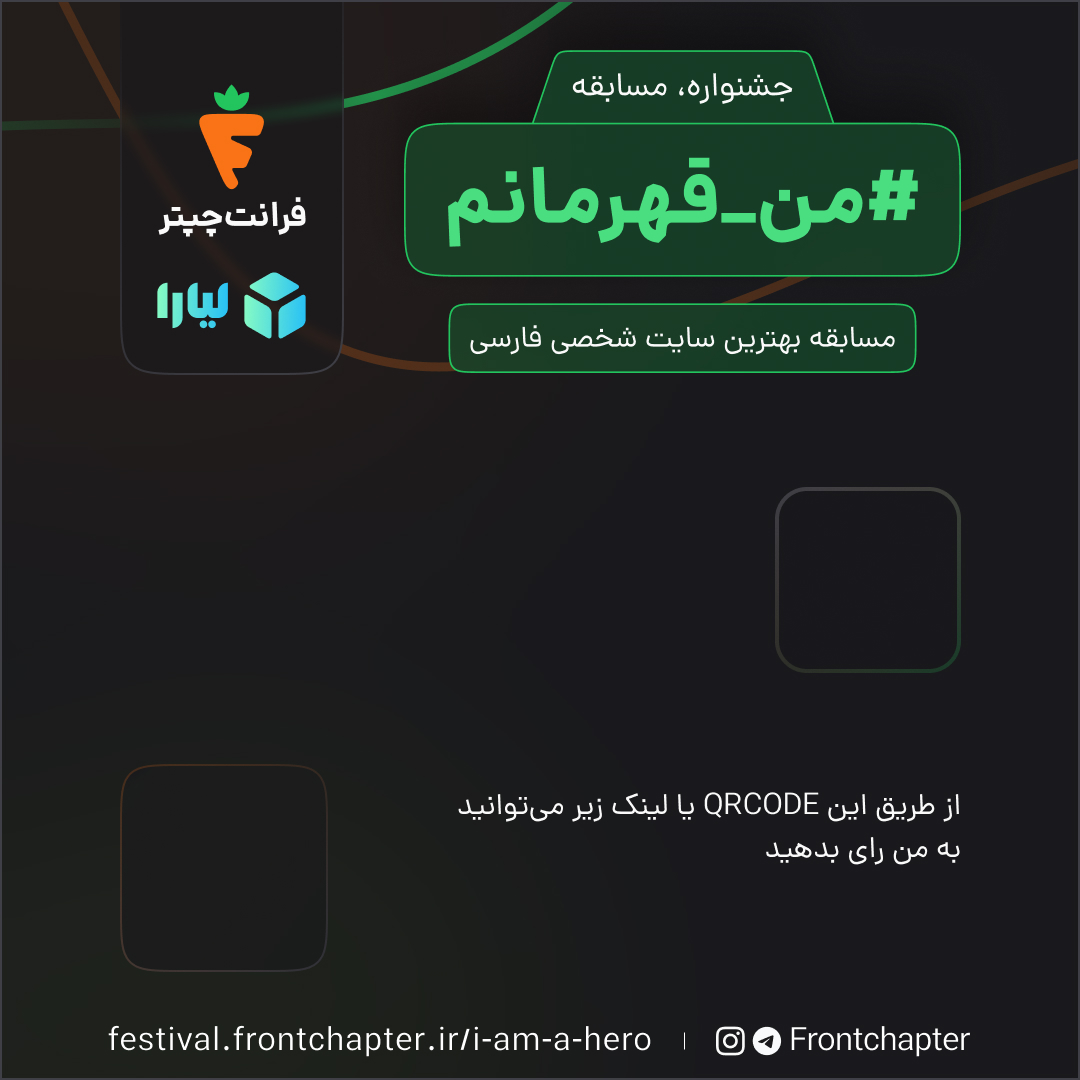
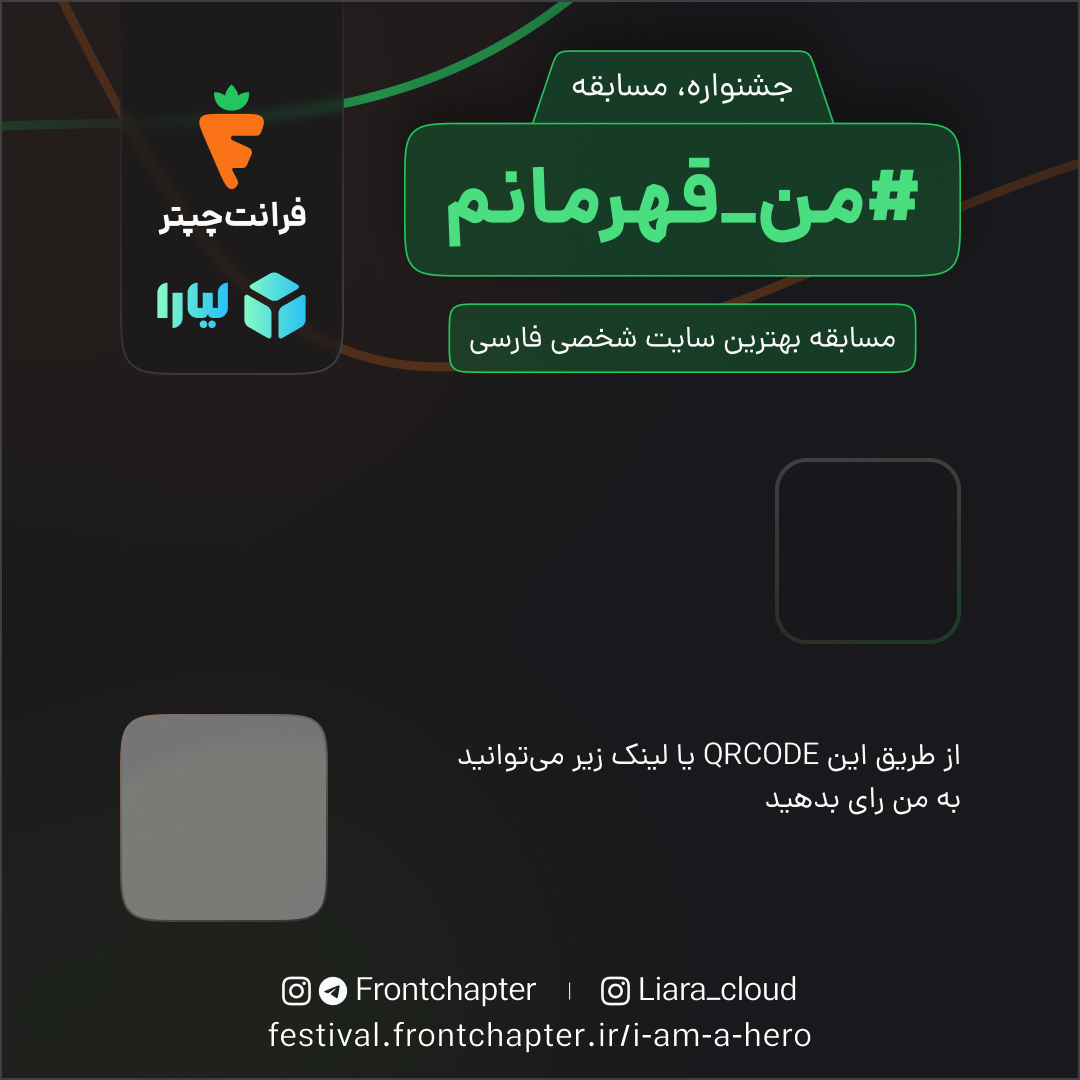
feat: :sparkles count sites views

diff --git a/resources/sass/app.scss b/resources/sass/app.scss
@@ -125,7 +125,7 @@
     }
 
     path {
-        @apply fill-slate-200 #{!important};
+        @apply fill-secondary-900 #{!important};
     }
 }
 

diff --git a/resources/views/livewire/festival/sites-poster-generator.blade.php b/resources/views/livewire/festival/sites-poster-generator.blade.php
@@ -3,15 +3,15 @@
 <x-card cardClasses="text-center border border-primary-400" :title="__('🔥Share Poster')">
     <div class="w-0 h-0 overflow-hidden opacity-0">
         <div id="base-canvas-post" class="relative" style="width: 1080px; height: 1080px; background-image: url({{ asset('images/festival-post-back.jpg') }})">
-            <img class="w-[180px] h-[180px] rounded-[28px] absolute top-[490px] right-[122px]" src="{{ $site->logo_url }}" alt="{{ $site->name }}" />
-                <div class="absolute justify-center gap-4 max-w-[620px] max-h-[186px] h-[186px] top-[457px] right-[340px] flex flex-col">
+            <img class="w-[180px] h-[180px] rounded-[28px] absolute top-[461px] right-[122px]" src="{{ $site->logo_url }}" alt="{{ $site->name }}" />
+                <div class="absolute justify-center gap-4 max-w-[620px] max-h-[186px] h-[186px] top-[427px] right-[340px] flex flex-col">
                     <p class="text-5xl font-bold leading-snug text-right text-secondary-50">{{ $site->name }}</p>
                     <p class="text-3xl text-right text-secondary-200" dir="ltr">{{ $site->url }}</p>
                 </div>
-                <div class="qrcode absolute top-[793px] right-[781px]">
+                <div class="qrcode absolute top-[743px] right-[781px]">
                     {!! QrCode::size(150)->format('svg')->generate($shortUrl); !!}
             </div>
-            <p class="absolute top-[876px] text-secondary-200 right-[119px] text-3xl" dir="ltr">{{ $shortUrl }}</p>
+            <p class="absolute top-[836px] text-secondary-200 right-[119px] text-3xl" dir="ltr">{{ $shortUrl }}</p>
         </div>
     </div>
     <div class="w-0 h-0 overflow-hidden opacity-0">
@@ -31,27 +31,24 @@
         <div class="flex flex-col gap-2">
             <div id="base-post" class="w-full overflow-hidden rounded-lg aspect-square max-w-64 max-h-64"></div>
             <a id="base-post-download" class="flex flex-col w-full" download="post.png">
-                <x-button icon="download" @click="downloadfiles('base-post')" :label="__('Download Image')" />
+                <x-button icon="download" @click="download('base-post')" :label="__('Download Image')" />
             </a>
         </div>
         <div class="flex flex-col gap-2">
             <div id="base-story" class="w-auto aspect-[9/16] overflow-hidden aspect rounded-lg max-w-64 max-h-64"></div>
             <a id="base-story-download" class="flex flex-col w-full" download="story.png">
-                <x-button icon="download" @click="downloadfiles('base-story')" :label="__('Download Image')" />
+                <x-button icon="download" @click="download('base-story')" :label="__('Download Image')" />
             </a>
         </div>
     </div>
 </x-card>
-@script
 <script>
-    function downloadfiles(id) {
+    function download(id) {
         if(id) {
             const download = document.getElementById(`${id}-download`);
-            const child = document.getElementById(id).children[0] ?? '';
-            const image = child.toDataURL("image/jpeg")
+            const image = document.getElementById(id).children[0].toDataURL("image/jpeg")
                 .replace("image/jpeg", "image/octet-stream");
             download.setAttribute("href", image);
         }
     }
 </script>
-@endscript

diff --git a/config/eloquent-viewable.php b/config/eloquent-viewable.php
@@ -1,0 +1,107 @@
+<?php
+
+return [
+
+    /*
+    |--------------------------------------------------------------------------
+    | Eloquent Models
+    |--------------------------------------------------------------------------
+    */
+    'models' => [
+
+        /*
+         * Here you can configure the default `View` model.
+         */
+        'view' => [
+
+            'table_name' => 'views',
+            'connection' => env('DB_CONNECTION', 'mysql'),
+
+        ],
+
+    ],
+
+    /*
+    |--------------------------------------------------------------------------
+    | Cache Configuration
+    |--------------------------------------------------------------------------
+    */
+    'cache' => [
+
+        /*
+         * Everthing will be stored under the following key.
+         */
+        'key' => 'cyrildewit.eloquent-viewable.cache',
+
+        /*
+         * Here you may define the cache store that should be used.
+         */
+        'store' => env('CACHE_DRIVER', 'file'),
+
+    ],
+
+    /*
+    |--------------------------------------------------------------------------
+    | Cooldown Configuration
+    |--------------------------------------------------------------------------
+    */
+    'cooldown' => [
+
+        /*
+         * Everthing will be stored under the following key in the session.
+         */
+        'key' => 'cyrildewit.eloquent-viewable.cooldowns',
+
+    ],
+
+    /*
+    |--------------------------------------------------------------------------
+    | Ignore Bots
+    |--------------------------------------------------------------------------
+    |
+    | If you want to ignore bots, you can specify that here. The default
+    | service that determines if a visitor is a crawler is a package
+    | by JayBizzle called CrawlerDetect.
+    |
+    */
+    'ignore_bots' => true,
+
+    /*
+    |--------------------------------------------------------------------------
+    | Do Not Track Header
+    |--------------------------------------------------------------------------
+    |
+    | If you want to honor the DNT header, you can specify that here. We won't
+    | record views from visitors with the Do Not Track header.
+    |
+    */
+    'honor_dnt' => false,
+
+    /*
+    |--------------------------------------------------------------------------
+    | Cookies
+    |--------------------------------------------------------------------------
+    |
+    | This package binds visitors to views using a cookie. If you want to
+    | give this cookie a custom name, you can specify that here.
+    |
+    */
+
+    'visitor_cookie_key' => 'eloquent_viewable',
+
+    /*
+    |--------------------------------------------------------------------------
+    | Ignore IP Addresses
+    |--------------------------------------------------------------------------
+    |
+    | Ignore views of the following IP addresses.
+    |
+    */
+
+    'ignored_ip_addresses' => [
+
+        // '127.0.0.1',
+
+    ],
+
+];

diff --git a/database/migrations/2024_02_19_093240_create_views_table.php b/database/migrations/2024_02_19_093240_create_views_table.php
@@ -1,0 +1,62 @@
+<?php
+
+use Illuminate\Support\Facades\Schema;
+use Illuminate\Database\Schema\Blueprint;
+use Illuminate\Database\Migrations\Migration;
+
+class CreateViewsTable extends Migration
+{
+    /**
+     * The database schema.
+     *
+     * @var \Illuminate\Support\Facades\Schema
+     */
+    protected $schema;
+
+    /**
+     * The table name.
+     *
+     * @var string
+     */
+    protected $table;
+
+    /**
+     * Create a new migration instance.
+     *
+     * @return void
+     */
+    public function __construct()
+    {
+        $this->schema = Schema::connection(
+            config('eloquent-viewable.models.view.connection')
+        );
+
+        $this->table = config('eloquent-viewable.models.view.table_name');
+    }
+
+    /**
+     * Run the migrations.
+     *
+     * @return void
+     */
+    public function up()
+    {
+        $this->schema->create($this->table, function (Blueprint $table) {
+            $table->bigIncrements('id');
+            $table->morphs('viewable');
+            $table->text('visitor')->nullable();
+            $table->string('collection')->nullable();
+            $table->timestamp('viewed_at')->useCurrent();
+        });
+    }
+
+    /**
+     * Reverse the migrations.
+     *
+     * @return void
+     */
+    public function down()
+    {
+        Schema::dropIfExists($this->table);
+    }
+}

diff --git a/app/Models/FestivalSite.php b/app/Models/FestivalSite.php
@@ -4,15 +4,18 @@ namespace App\Models;
 
 use App\Enums\FestivalSiteStatus;
 use App\Traits\Uuids;
+use CyrildeWit\EloquentViewable\Contracts\Viewable;
+use CyrildeWit\EloquentViewable\InteractsWithViews;
 use Illuminate\Database\Eloquent\Factories\HasFactory;
 use Illuminate\Database\Eloquent\Model;
 use Illuminate\Database\Eloquent\Relations\BelongsTo;
 use Illuminate\Database\Eloquent\Relations\MorphToMany;
 use Illuminate\Support\Facades\Storage;
 
-class FestivalSite extends Model
+class FestivalSite extends Model implements Viewable
 {
     use HasFactory, Uuids;
+    use InteractsWithViews;
 
     /**
      * The attributes that are mass assignable.

diff --git a/app/Livewire/Festival/SingleSite.php b/app/Livewire/Festival/SingleSite.php
@@ -12,6 +12,8 @@ class SingleSite extends Component
     public function mount(FestivalSite $festivalSite)
     {
         $this->site = $festivalSite;
+
+        views($festivalSite)->record();
     }
 
     public function render()

diff --git a/config/app.php b/config/app.php
@@ -160,6 +160,8 @@ return [
          * Package Service Providers...
          */
 
+        CyrildeWit\EloquentViewable\EloquentViewableServiceProvider::class,
+
         /*
          * Application Service Providers...
          */
